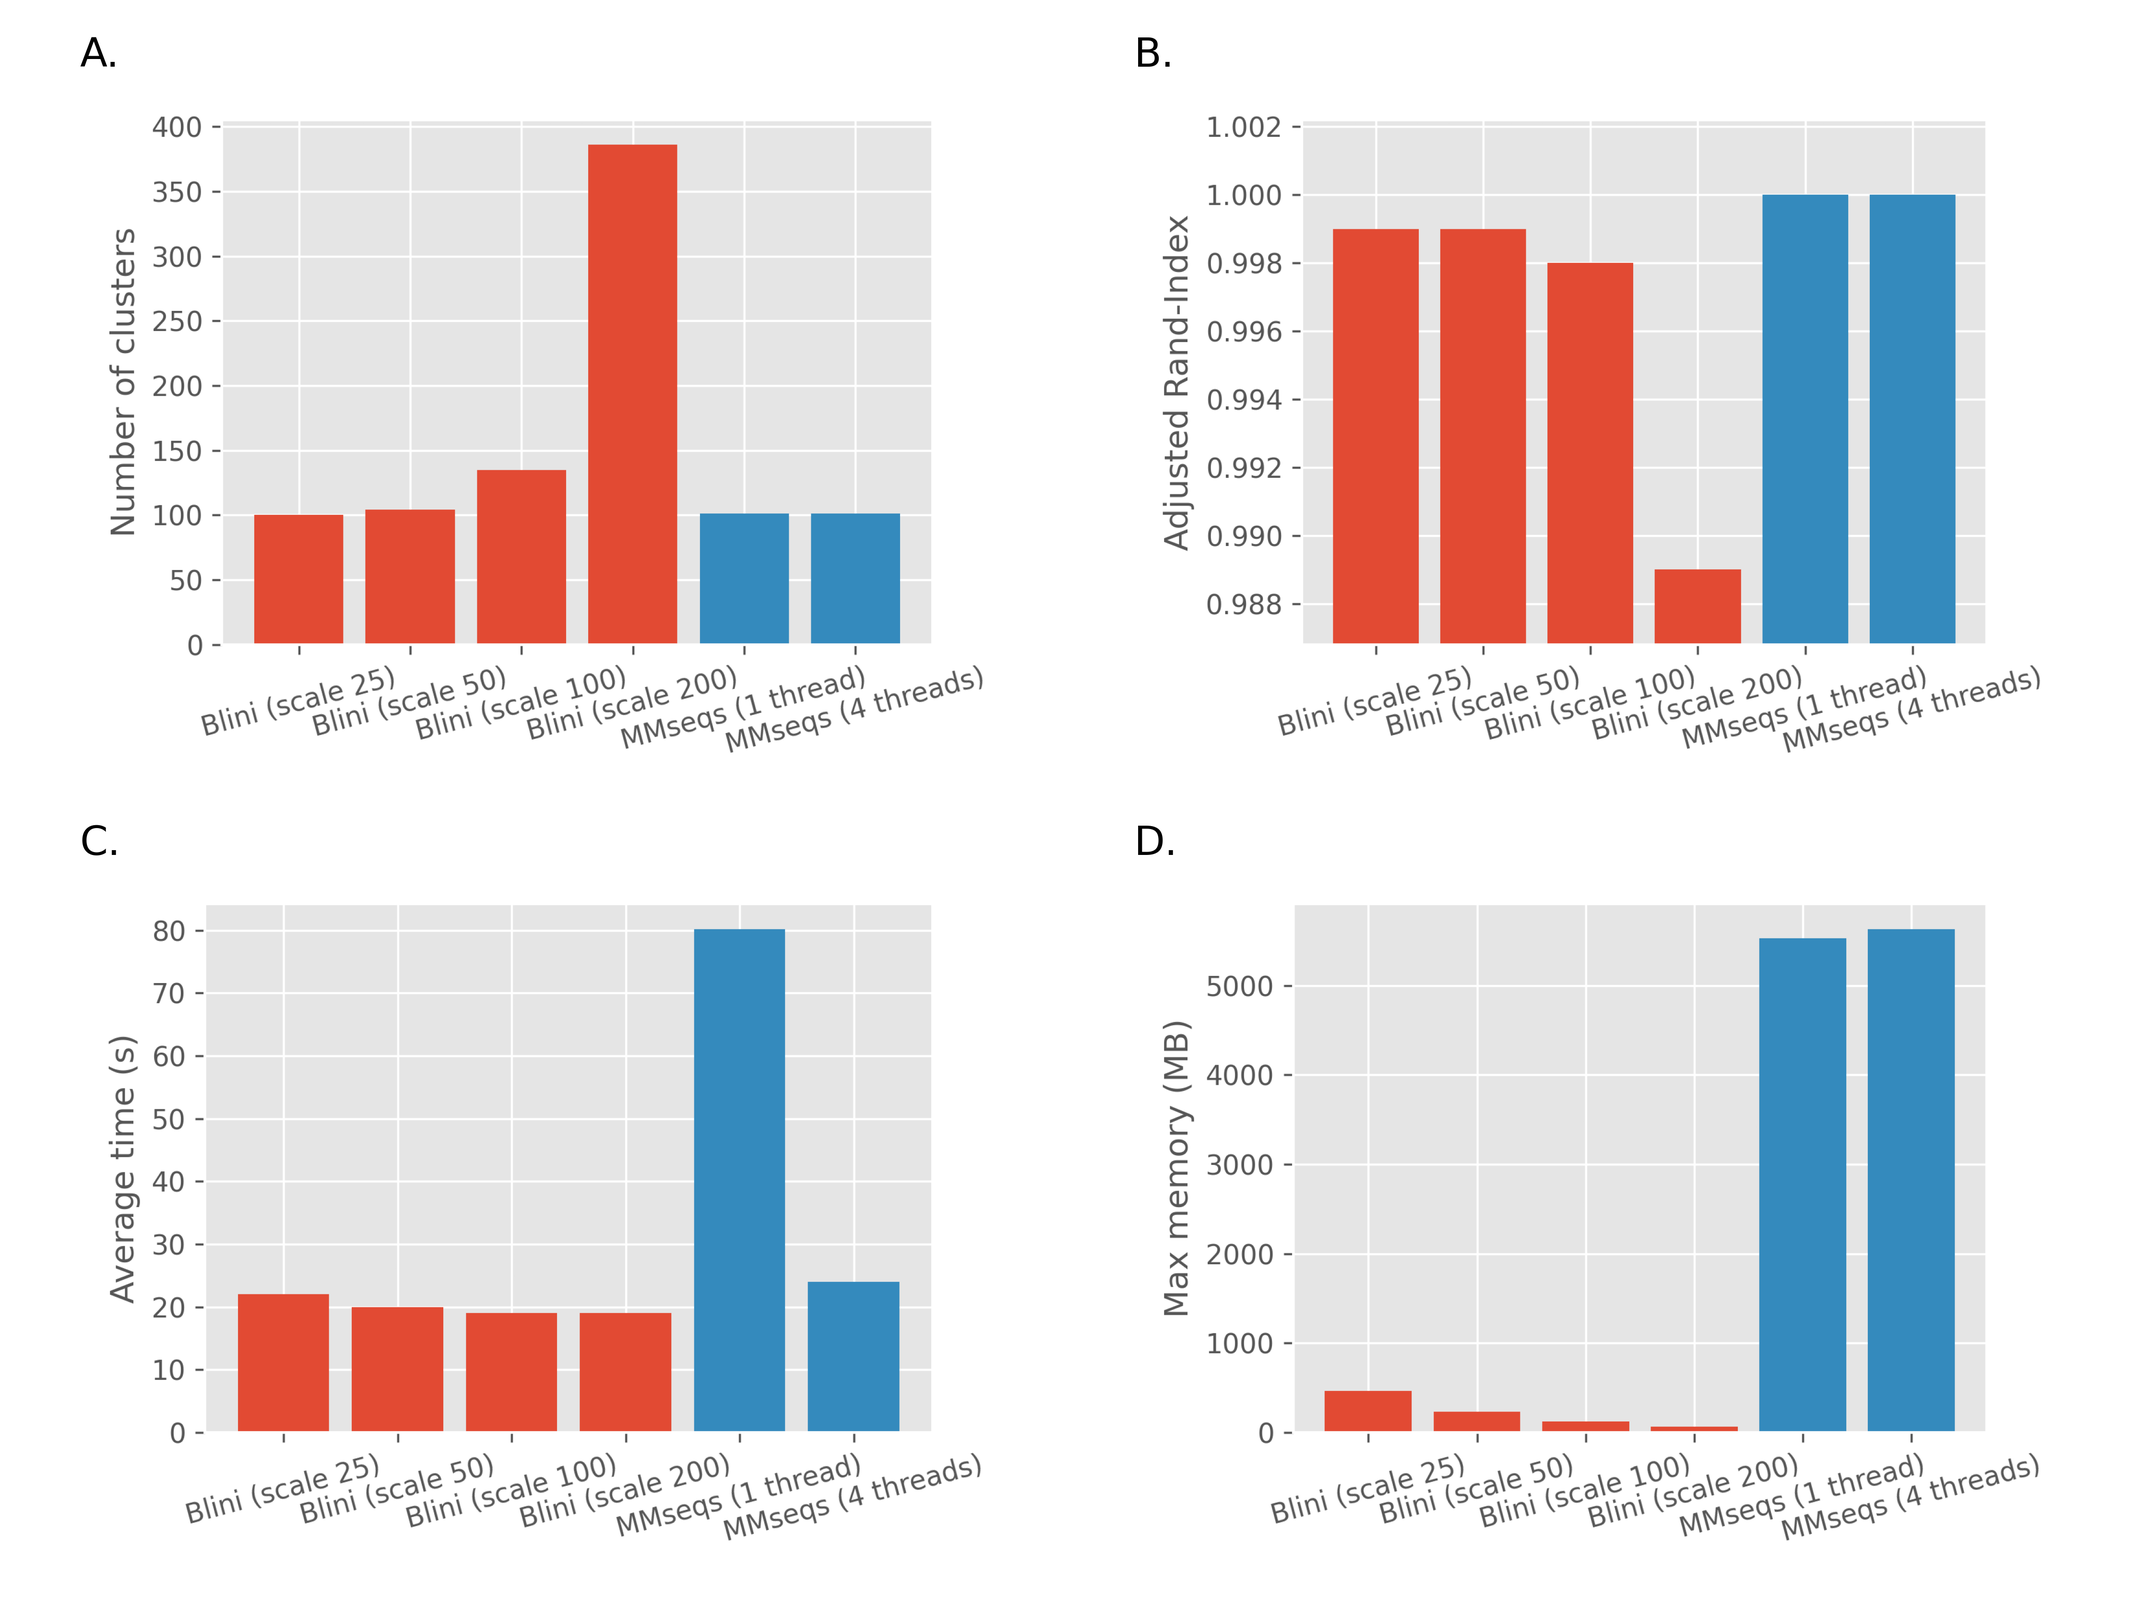
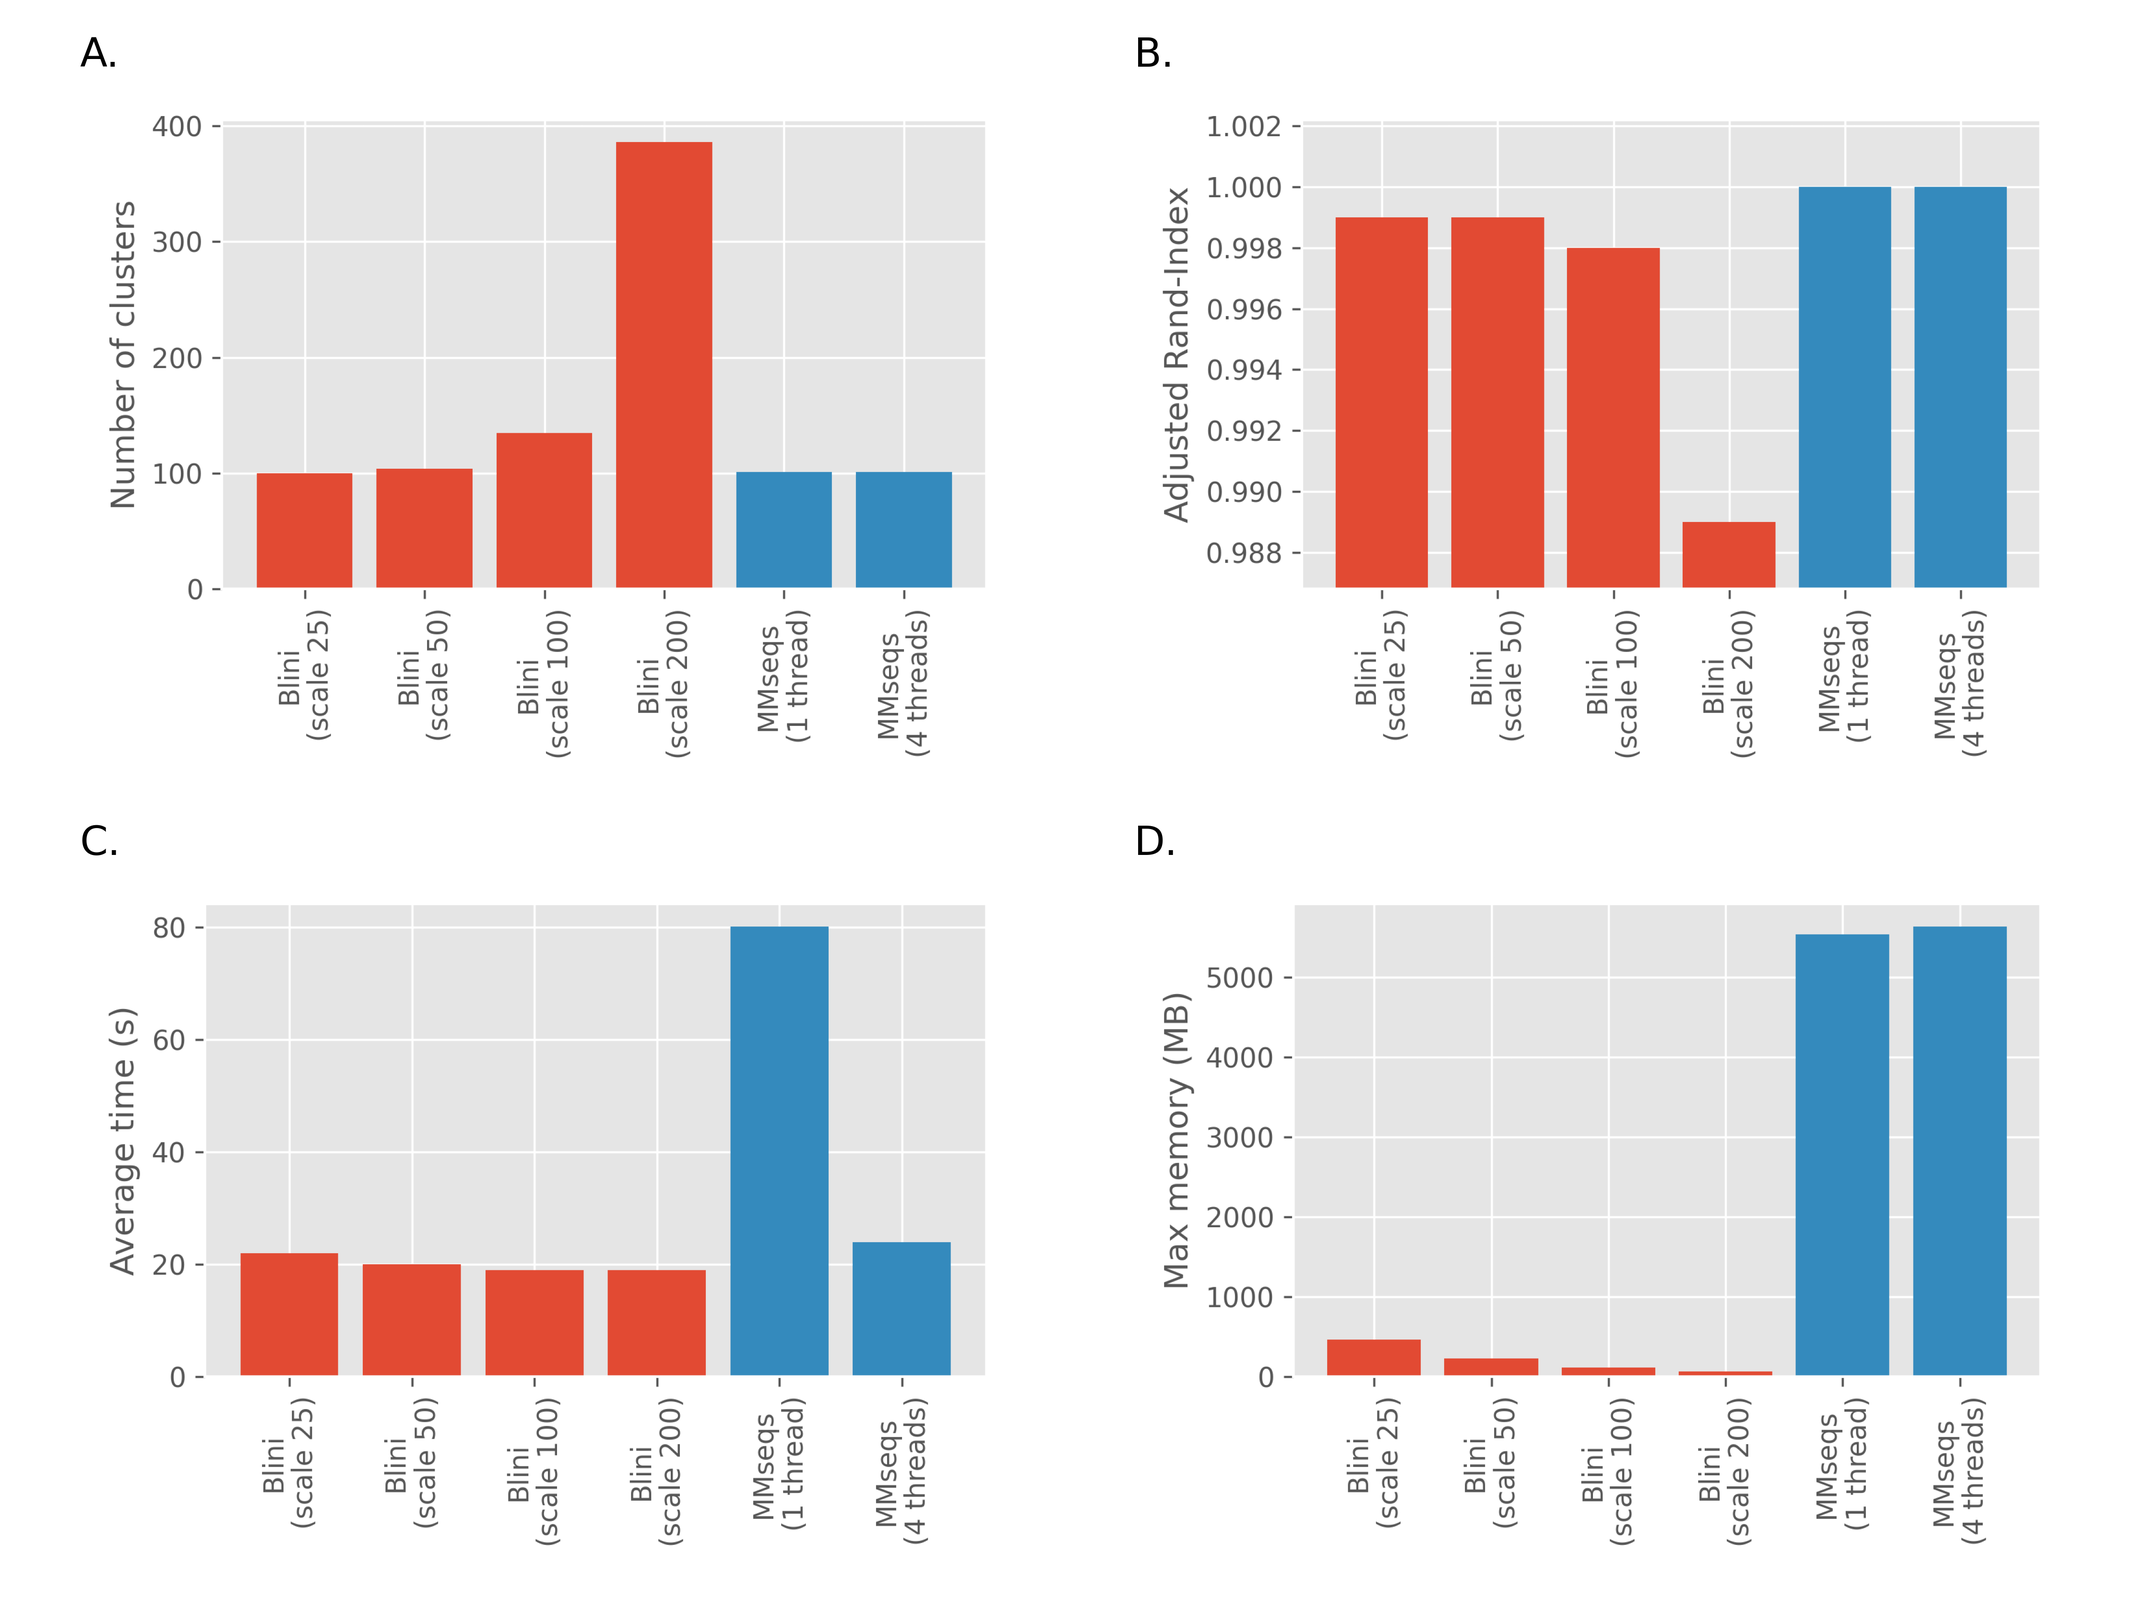
Add big search section to paper, and some proofreading

diff --git a/paper/plots.py b/paper/plots.py
@@ -18,12 +18,13 @@ def load_table(f: str):
             d[k] = [float(x) for x in d[k]]
         except ValueError:
             continue
-    d['time_seconds'] = list(zip(*[d[f'time_seconds_{i}'] for i in range(1, 6)]))
-    d['time_seconds'] = [np.mean(x) for x in d['time_seconds']]
+    if 'time_seconds_1' in d:
+        d['time_seconds'] = list(zip(*[d[f'time_seconds_{i}'] for i in range(1, 6)]))
+        d['time_seconds'] = [np.mean(x) for x in d['time_seconds']]
     return d
 
 
-def plot_search():
+def plot_search_small():
     d = load_table('results/results_search.txt')
     print(d)
     d['name'] = [x.replace(' ', '\n') for x in d['name']]
@@ -33,52 +34,68 @@ def plot_search():
         plt.bar(d['name'][4:], d['time_seconds'][4:])
         plt.yscale('log')
         plt.ylabel('Average time (s)')
-        plt.xticks(rotation=20)
+        plt.xticks(rotation=90)
     with ctx(f'{OUT_DIR}/search_found', sizeratio=0.75):
         plt.bar(d['name'][:2], d['source_found'][:2])
         plt.bar(d['name'][2:4], d['source_found'][2:4])
         plt.bar(d['name'][4:], d['source_found'][4:])
         plt.ylabel('Successful matches (out of 100)')
-        plt.xticks(rotation=20)
+        plt.xticks(rotation=90)
     with ctx(f'{OUT_DIR}/search_others', sizeratio=0.75):
         plt.bar(d['name'][:2], d['others_found'][:2])
         plt.bar(d['name'][2:4], d['others_found'][2:4])
         plt.bar(d['name'][4:], d['others_found'][4:])
         plt.ylabel('Non-source matches ')
-        plt.xticks(rotation=20)
+        plt.xticks(rotation=90)
+
+
+def plot_search_big():
+    d = load_table('results/results_search_big.txt')
+    print(d)
+    d['name'] = [x.replace(' (', '\n(') for x in d['name']]
+    with ctx('results/search_big', sizeratio=0.75):
+        plt.bar(d['name'][:3], d['time_seconds'][:3])
+        plt.bar(d['name'][3:5], d['time_seconds'][3:5])
+        plt.bar(d['name'][5:], d['time_seconds'][5:])
+        plt.text(5, d['time_seconds'][5] * 1.02, 'X', ha='center')
+        plt.yscale('log')
+        plt.ylabel('Time (s)')
+        plt.xticks(rotation=90)
 
 
 def plot_clust(tag: str):
-    d = load_table(f'results_clust_{tag}.txt')
+    d = load_table(f'results/results_clust_{tag}.txt')
     print(d)
-    with ctx(f'clust_{tag}_time', sizeratio=0.75):
+    d['name'] = [x.replace(' (', '\n(') for x in d['name']]
+    with ctx(f'{OUT_DIR}/clust_{tag}_time', sizeratio=0.75):
         plt.bar(d['name'][:4], d['time_seconds'][:4])
         plt.bar(d['name'][4:], d['time_seconds'][4:])
         plt.ylabel('Average time (s)')
-        plt.xticks(rotation=15)
-    with ctx(f'clust_{tag}_mem', sizeratio=0.75):
+        plt.xticks(rotation=90)
+    with ctx(f'{OUT_DIR}/clust_{tag}_mem', sizeratio=0.75):
         plt.bar(d['name'][:4], d['max_mem_mb'][:4])
         plt.bar(d['name'][4:], d['max_mem_mb'][4:])
         plt.ylabel('Max memory (MB)')
-        plt.xticks(rotation=15)
-    with ctx(f'clust_{tag}_ari', sizeratio=0.75):
+        plt.xticks(rotation=90)
+    with ctx(f'{OUT_DIR}/clust_{tag}_ari', sizeratio=0.75):
         plt.bar(d['name'][:4], d['ari'][:4])
         plt.bar(d['name'][4:], d['ari'][4:])
         plt.ylabel('Adjusted Rand-Index')
-        plt.xticks(rotation=15)
         ylim = [min(d['ari']), max(d['ari'])]
         stretch = (ylim[1] - ylim[0]) * 0.2
         ylim[0] -= stretch
         ylim[1] += stretch
         plt.ylim(ylim)
+        plt.xticks(rotation=90)
     with ctx(f'{OUT_DIR}/clust_{tag}_nclust', sizeratio=0.75):
         plt.bar(d['name'][:4], d['n_clusters'][:4])
         plt.bar(d['name'][4:], d['n_clusters'][4:])
         plt.ylabel('Number of clusters')
-        plt.xticks(rotation=15)
+        plt.xticks(rotation=90)
 
 
 plt.style.use('ggplot')
-plot_search()
+plot_search_small()
+plot_search_big()
 plot_clust('frag')
 plot_clust('snps')

diff --git a/paper/paper2.md b/paper/paper2.md
@@ -22,8 +22,9 @@ header-includes: |
 abstract: |
   Blini is a tool for quick lookup of nucleotide sequences in databases,
   and for quick dereplication of sequence collections.
-  It is meant to help cleaning and characterizing large collections
-  of sequences that would otherwise be too big to search with online tools,
+  It is meant to help clean and characterize large collections
+  of assembled contigs or long sequences
+  that would otherwise be too big to search with online tools,
   or too demanding for a local machine to process.
   Benchmarks on simulated data
   demonstrate that it is faster than existing tools
@@ -42,7 +43,7 @@ Assembled sequences can reach lengths of millions of bases,
 making alignment-based search methods too cumbersome.
 Such big queries are often outsourced to powerful cloud-based
 services such as BLAST [@altschul1990basic].
-In recent years, k-mer-based algorithms were introduced,
+In recent years, k-mer-based algorithms were introduced
 that enabled efficient searching in large datasets on local machines.
 Mash distance [@ondov2016mash] introduced an alignment-free estimation
 formula for average nucleotide identity between sequences,
@@ -51,7 +52,7 @@ Sourmash [@brown2016sourmash] uses fractional min-hashing in order to
 create small representations of large sequences,
 which allow for efficient searching and comparison.
 The LinClust clustering algorithm [@steinegger2018clustering] uses
-k-mer matching reduce the number of pairwise comparisons and achieve
+k-mer matching to reduce the number of pairwise comparisons and achieve
 linear scaling with the size of the input.
 
 While each of these techniques provides value on its own,
@@ -92,11 +93,13 @@ against their intersection with the hashes of the reference sequence.
 ### Search
 
 The first step of searching is indexing the reference dataset.
-After the reference sequences had been fingerprinted,
+After the reference sequences are fingerprinted,
 the 25% lowest hashes are used for indexing.
-The index is simply a mapping between hash value to a list
-of serial numbers of the reference sequneces that had that
+The index is a mapping from hash value to a list
+of serial numbers of the reference sequences that had that
 hash in their fingerprints.
+The number 25% was chosen as a sweet spot between
+saving memory and retaining enough information for the search.
 As an optimization, hashes with a single reference sequence
 are kept in a separate 'singletons' map.
 Since in practice most of the index elements are singletons,
@@ -124,7 +127,7 @@ for hierarchy generation.
 
 ## Performance evaluation
 
-### Search
+### Search - small
 
 The search function was tested on RefSeq's viral reference
 [@pruitt2007ncbi].
@@ -132,7 +135,7 @@ Blini was compared against Sourmash and MMseqs.
 100 viral genomes were randomly selected for the test.
 The algorithms were then run on the 100 genomes as queries,
 and the original database as reference.
-Each algorithm was expected to match each genome with its source
+Each algorithm was expected to match each genome to its source
 in the database.
 In a second run, random SNPs were introduced to 1% of the genomes'
 bases, and the same test was rerun.
@@ -156,7 +159,36 @@ Sourmash completed the run in 126 seconds,
 and MMseqs completed the run in 151 seconds (Figure 1c).
 The times shown here do not include reference-preprocessing time.
 
-![Search results for the viral dataset.](results/search.png)
+![Search results for the viral dataset. Each tool was run on 100 randomly chosen viral genomes, to find them in the original dataset. (A) shows how many of the 100 genomes were correctly mapped to their source in the database. (B) shows how many additional matches were found in addition to the 100 chosen genomes. (C) shows the search times for the 100 queries together.](results/search.png)
+
+### Search - big
+
+To test the search function on a large dataset,
+the bacterial contigs from [@pasolli2019extensive] were used.
+This 10GB dataset contains 934K contigs from almost 5K bacterial species.
+Each of the compared tools was run to create an index of the dataset.
+
+The simulated query dataset consisted of 100K random fragments of
+length 10K bases,
+sampled uniformly from the bacterial contigs.
+Each fragment was mutated with random SNPs in 0.1% of its bases.
+Blini, Sourmash and MMseqs were run on the query dataset,
+to search it in the bacterial reference.
+Because of the long search times, only Blini was run on the full set
+of queries,
+while the other tools were run on one or ten queries out of the 100K.
+
+MMseqs took longer than 30 minutes to search for a single query,
+and was therefore terminated prematurely.
+Sourmash was run on one query and on ten queries and took 31 seconds per query.
+Blini took 6 seconds for one and ten queries, and 25 seconds for the
+entire set of 100K queries (Figure 2).
+This means a throughput of 5100 queries per second after the 6 seconds
+of loading the reference index.
+Blini matched all 100K queries with their correct source in the reference,
+with 2444 additional non-source matches (false-positives).
+
+![Search times for the bacterial dataset. Each tool was run on randomly chosen 10 kilo-base fragments from a 10GB bacterial dataset. MMseqs is marked with an X because it was stopped manually before it could finish running.](results/search_big.png){width=40%}
 
 ### Clustering
 
@@ -179,31 +211,31 @@ for the operation.
 Scale 50 means that 1/50 of k-mers were used.
 
 In the SNPs dataset, both Blini and MMseqs achieved an ARI between 0.999 and 1.0,
-except for Blini with scale 200 which achieved an ARI of 0.997 (Figure 2b).
+except for Blini with scale 200 which achieved an ARI of 0.997 (Figure 3b).
 Blini created 100, 100, 101 and 110 clusters using scales
 25, 50, 100 and 200 respectively.
-MMseqs created 103 clusters (Figure 2a).
+MMseqs created 103 clusters (Figure 3a).
 Blini took on average 10.5 seconds,
 and MMseqs took 46 seconds with one thread,
-and 14 seconds with four threads (Figure 2b).
+and 14 seconds with four threads (Figure 3b).
 In terms of memory, Blini had a maximal memory footprint of 255, 129, 65, and
 38 MB using scales 25, 50, 100 and 200 respectively.
-MMseq had a maximal memory footprint of 3072 MB (Figure 2c).
+MMseqs had a maximal memory footprint of 3072 MB (Figure 3c).
 
-![Clustering results for the SNPs dataset.](results/clust_snps.png){width=75%}
+![Clustering results for the SNPs dataset. Each of the 100 viral genomes from the search benchmark was used to create 100 mutant sequences with SNPs in 1% of their bases. The tools were run on this collection of 10100 genomes and were expected to cluster them into 100 groups, corresponding to the original genomes.](results/clust_snps.png){width=80%}
 
 In the fragments dataset, MMseqs achieved an ARI of 1.0 while Blini
 achieved an ARI of 0.999, 0.999, 0.998 and 0.989 with scales 25, 50, 100 and 200
-(Figure 3b).
+(Figure 4b).
 Blini grouped the dataset into 100, 104, 135 and 386 clusters,
-while MMseqs grouped the dataset into 101 clusters (Figure 3a).
+while MMseqs grouped the dataset into 101 clusters (Figure 4a).
 Blini took on average 20 seconds, and MMseqs took 80 seconds with one
-thread, and 24 seconds with four threads (Figure 3c).
+thread, and 24 seconds with four threads (Figure 4c).
 In terms of memory, Blini had a maximal memory footprint of 462, 233, 119, and
 67 MB using scales 25, 50, 100 and 200 respectively.
-MMseq had a maximal memory footprint of 5632 (Figure 3d).
+MMseqs had a maximal memory footprint of 5632 MB (Figure 4d).
 
-![Clustering results for the fragments dataset.](results/clust_frag.png){width=75%}
+![Clustering results for the fragments dataset. Each of the 100 viral genomes from the search benchmark was used to create 300 random fragments of length 1000 bases and above. The tools were run on this collection of 30100 genomes and were expected to cluster them into 100 groups, corresponding to the original genomes.](results/clust_frag.png){width=80%}
 
 # Discussion
 
@@ -215,11 +247,14 @@ average nucleotide identity (ANI) approximation,
 combined with a minimalist implementation,
 resulting in a scalable and easy to use utility.
 
-The performance benchmarks shown here demonstrate a 300x speedup
-for search and a 4x speedup for clustering
+The performance benchmarks shown here demonstrate an over 5000
+queries-per-second throughput on a 10GB reference dataset,
+while existing implementations took 30 seconds or over 30 minutes
+for a single query.
+For clustering, the speedup was 4x
 in comparison to existing implementations,
 as well as a reduced memory footprint,
-while search and clustering accuracy was maintained.
+while clustering accuracy was maintained.
 
 One drawback is that Blini does not perform alignment,
 and instead uses an approximation for ANI.
@@ -244,8 +279,14 @@ this tool might not be suitable for short reads.
 
 In summary, this is a new algorithm for search and dereplication of large-scale
 sequence collections.
-It is meant to run locally on resource-limited systems while
-maintaining performance and accuracy.
+Blini significantly reduces the barrier to search and clustering
+tasks that would otherwise require huge computing power to perform,
+while maintaining result accuracy.
+For resource-constrained settings, Blini enables search and clustering
+that would otherwise be impossible due to time and memory constraints.
+For large systems such as cloud-based search servers,
+Blini can reduce query costs significantly and open the door for
+increased bandwidth.
 The tool is optimized for ease of use
 and does not require installing additional software.
 Pre-sketched databases can be easily created, reused and shared
@@ -255,5 +296,8 @@ between research groups.
 
 Code and runnable binaries are available for Linux, Windows and MacOS at:
 https://github.com/fluhus/blini/releases
+
+Feedback on the tool or on this manuscript is welcome at:
+https://github.com/fluhus/blini/discussions
 
 # References
